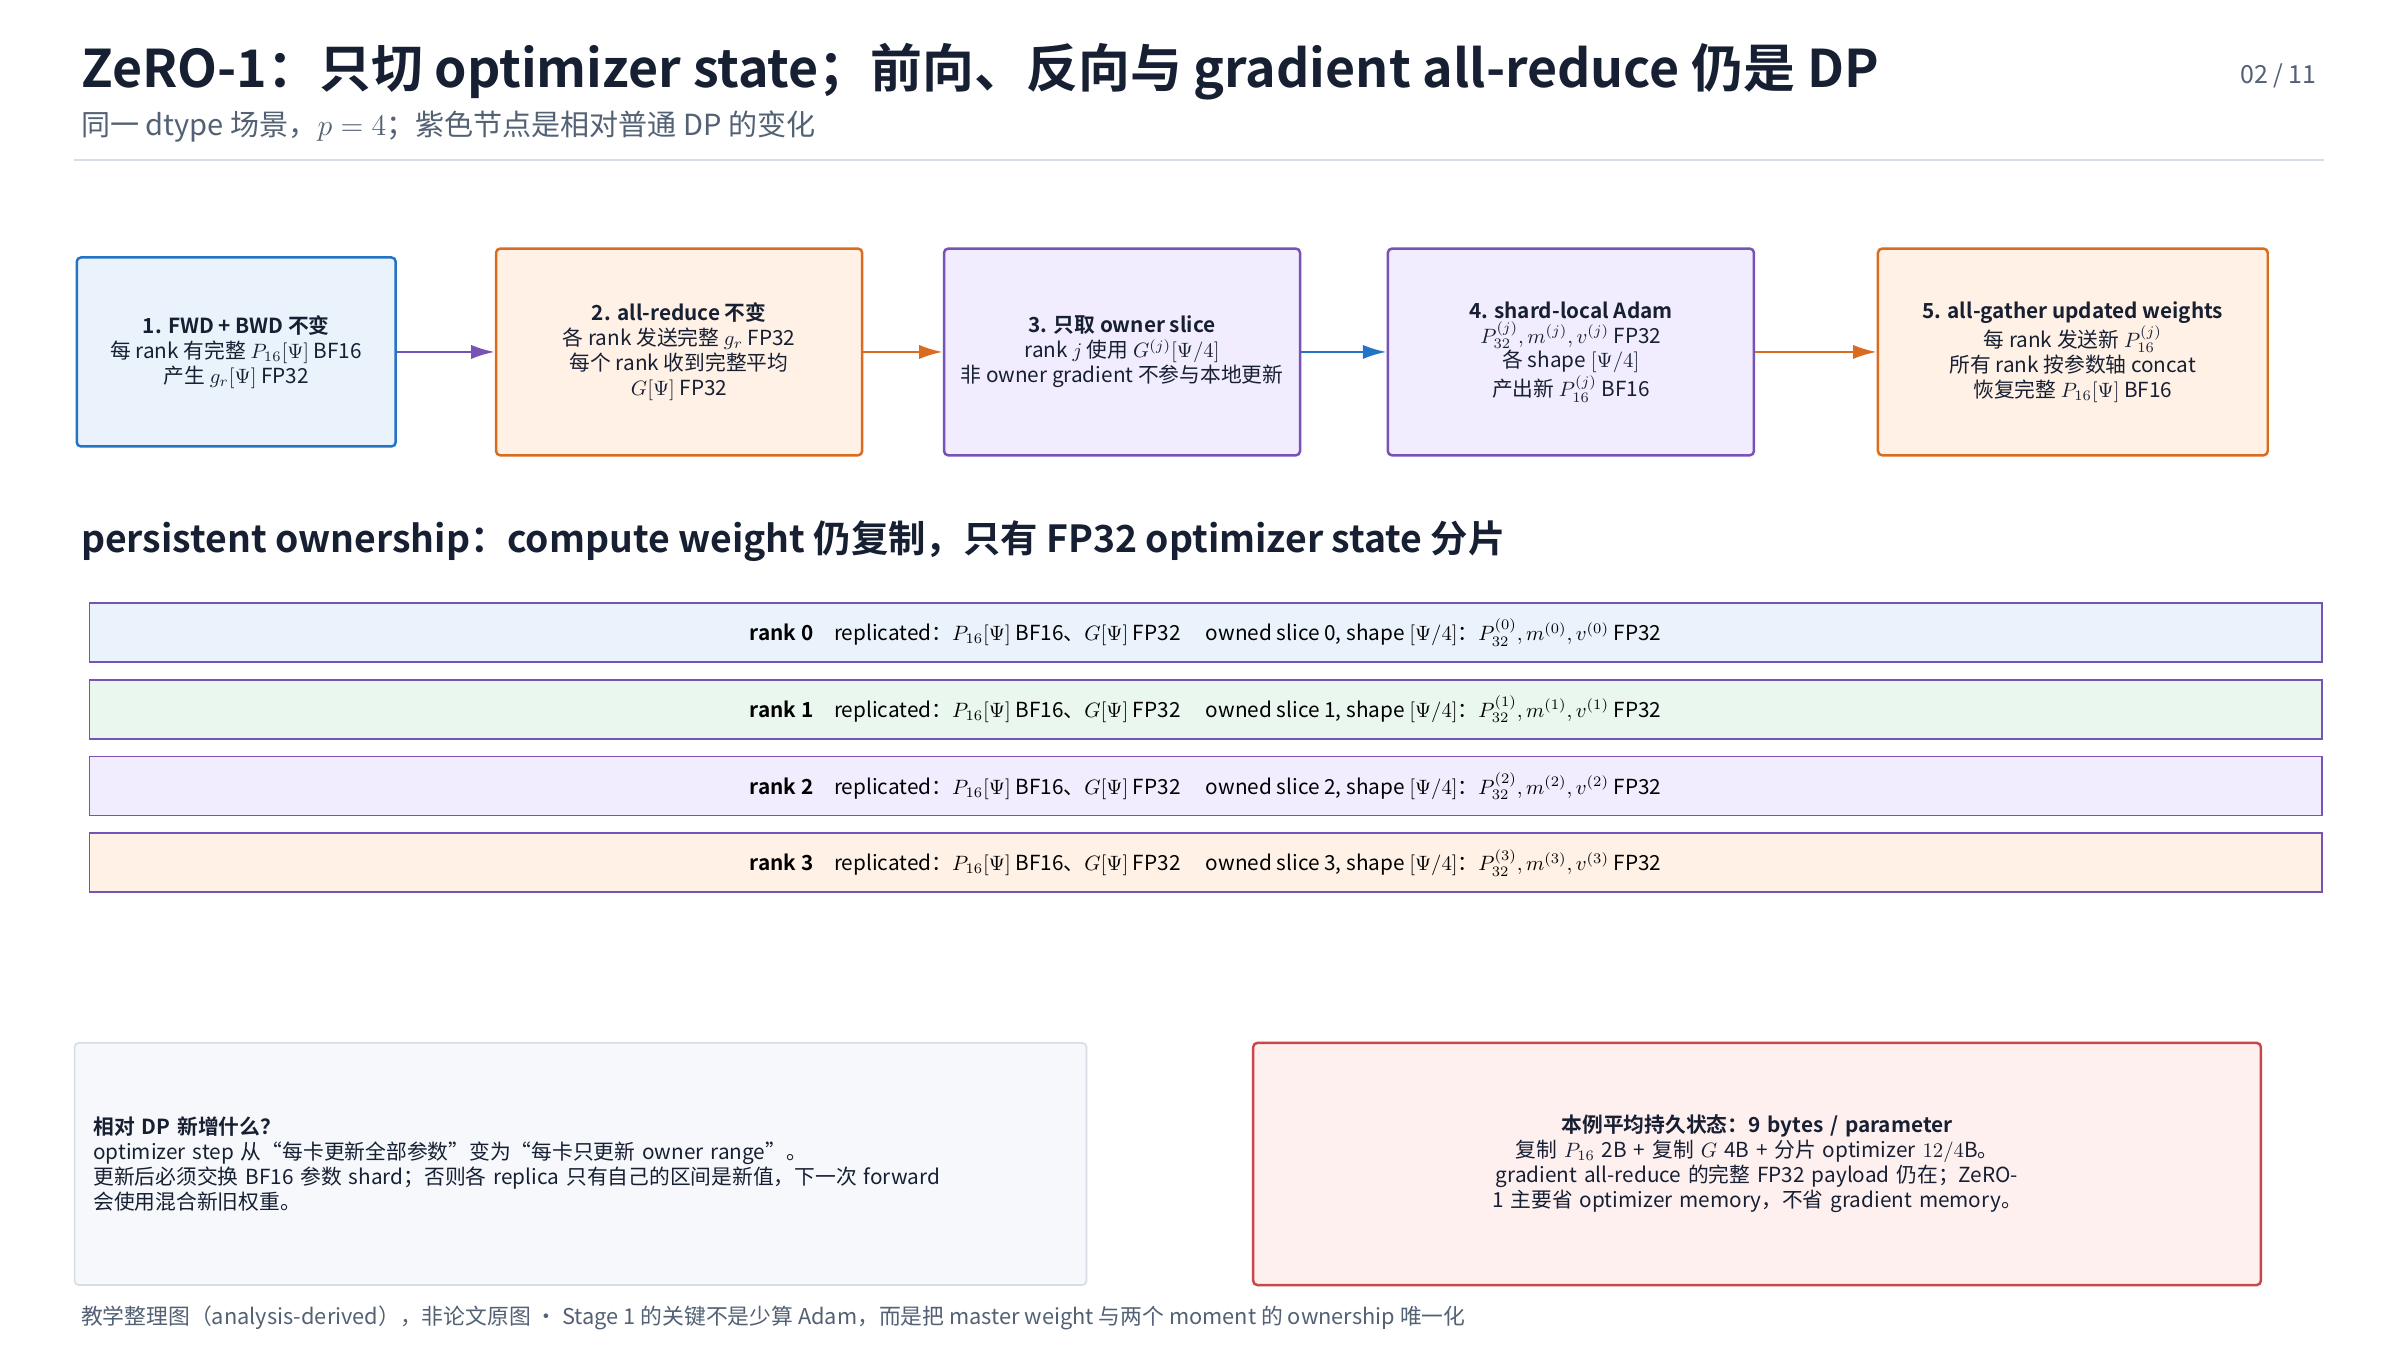
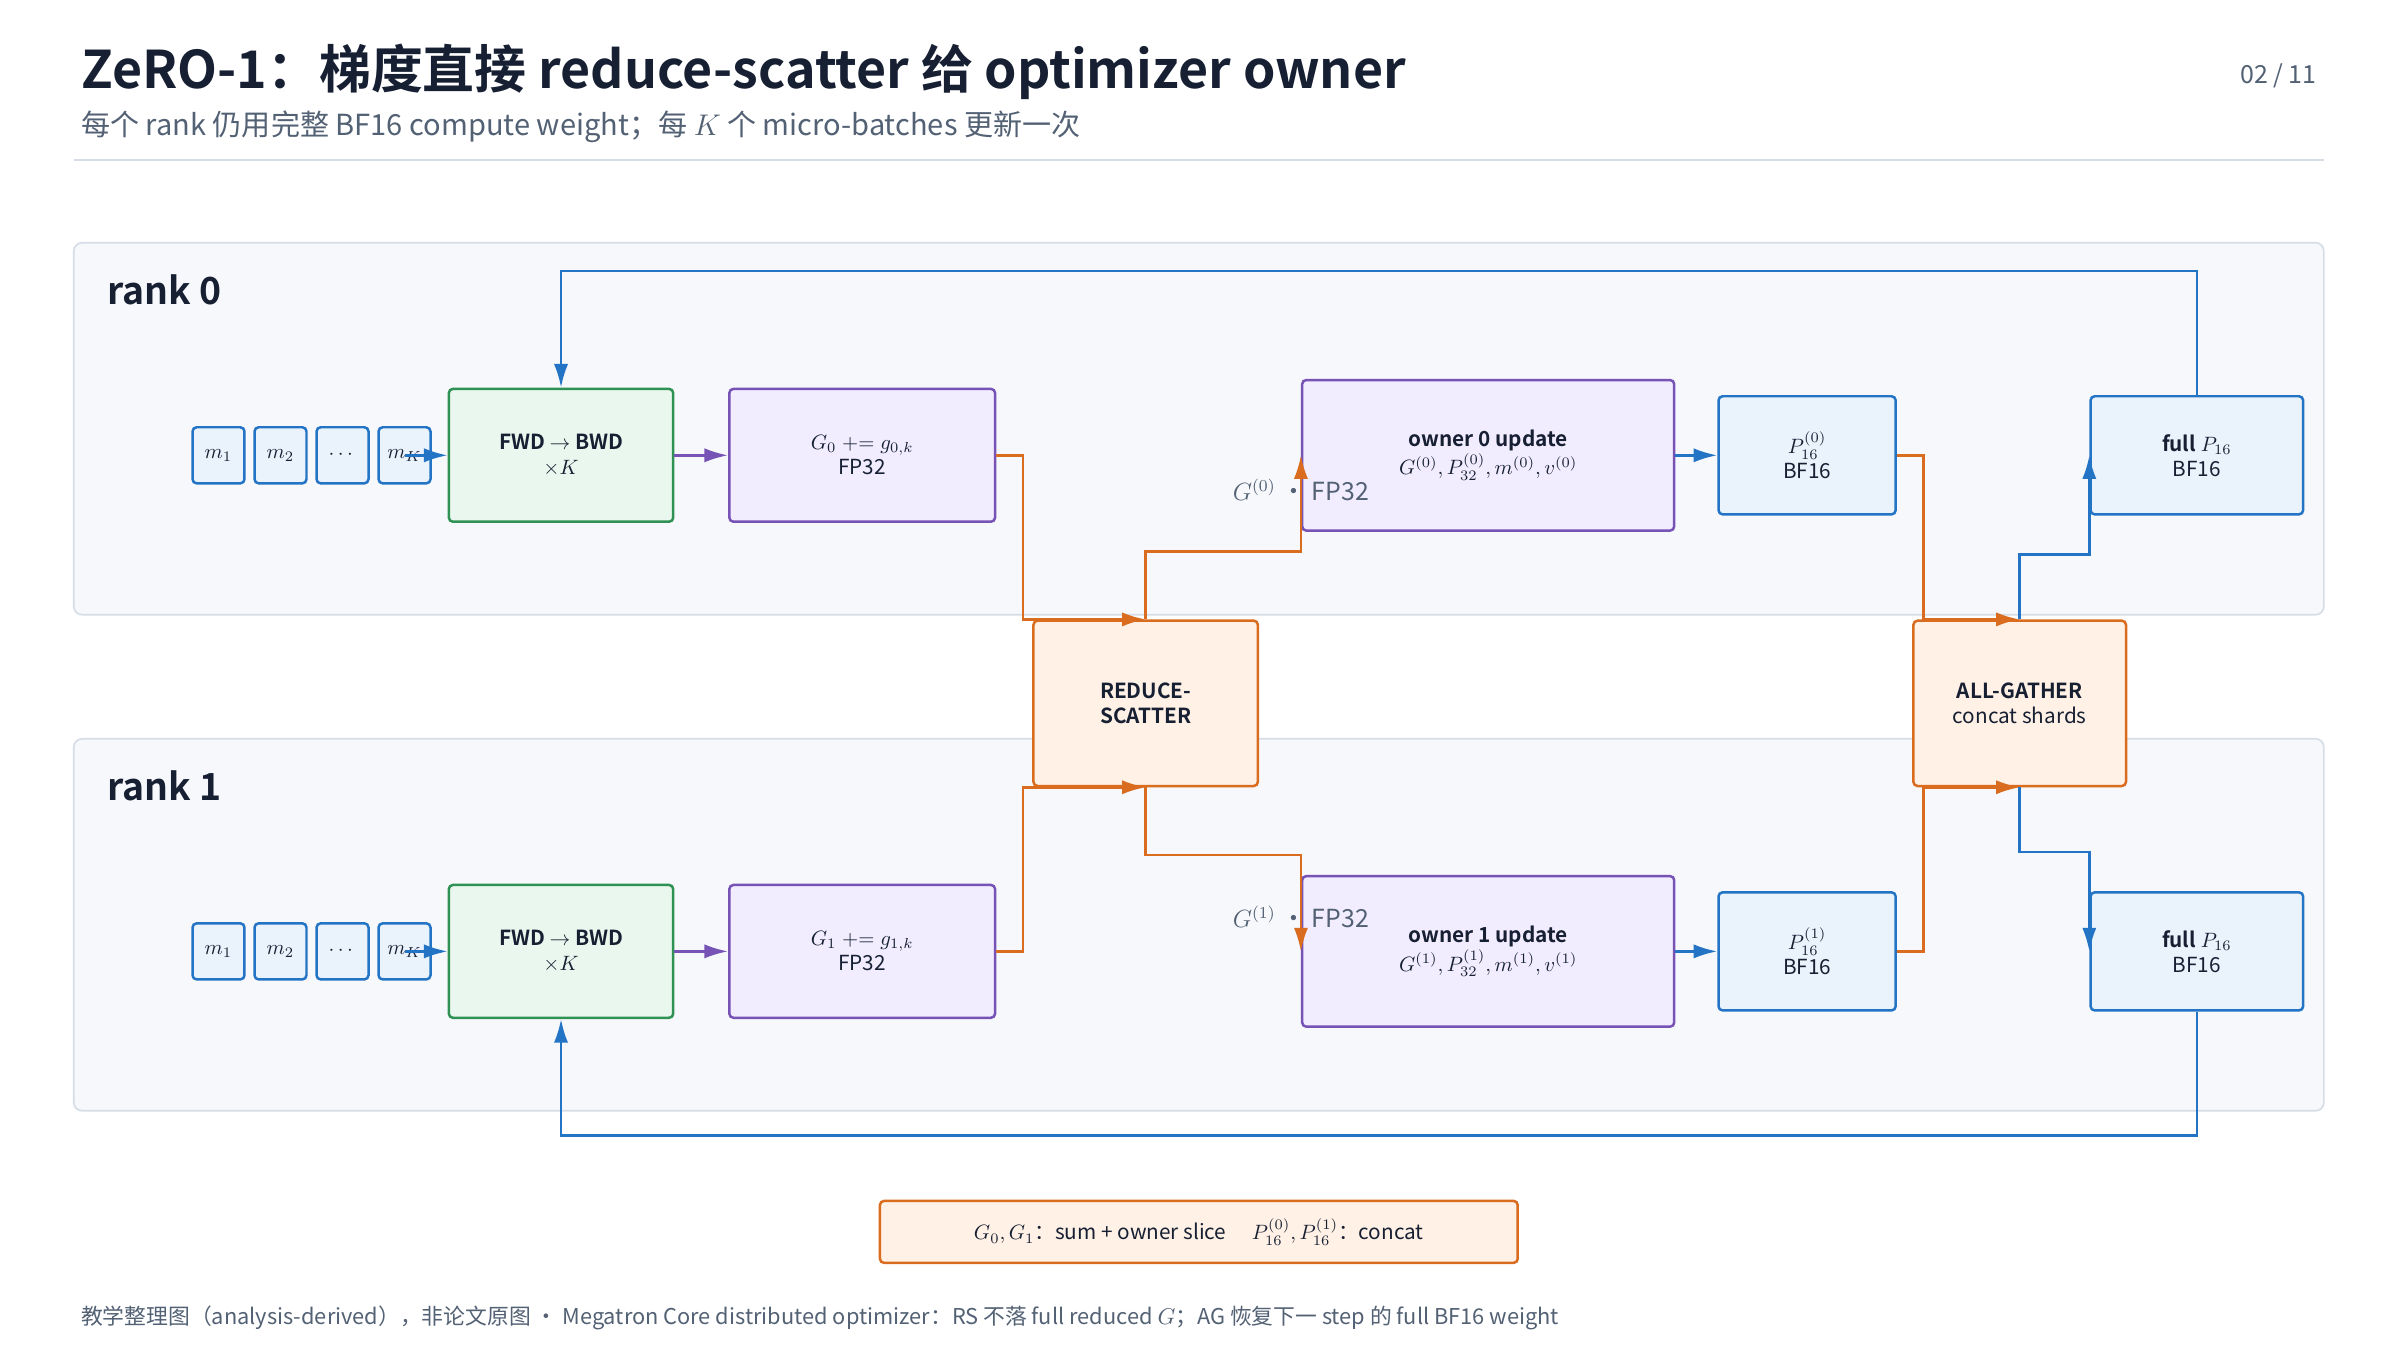
docs(parallelism): correct ZeRO-1 reduce-scatter flow

diff --git a/01_ai_infra/parallelism/evidence/figure-inventory.md b/01_ai_infra/parallelism/evidence/figure-inventory.md
@@ -44,12 +44,12 @@ canonical: true
 
 以下 11 张 PNG 全部由 [并行切分方法体系](../surveys/parallel-partitioning-taxonomy.md) 独占，使用 TikZ 排版并以 `2400×1350` 输出。它们是 analysis-derived 教学整理图，不是原论文 Figure/Table，不计入论文视觉证据数量。TikZ 源码、PDF、过程渲染、contact sheet 与像素检查保留在 process workspace。
 
-2026-08-03 的 `1.4.0` 修订把 DP/ZeRO 汇总图拆成普通 DP、ZeRO-1、ZeRO-2、ZeRO-3 四张 workflow，固定 BF16 compute 与 FP32 gradient/optimizer 的示例 dtype，显式展示 forward、backward、optimizer、collective payload、owner 和 buffer 生命周期。2026-08-02 的 `1.3.0` 修订把原 SVG 重绘为 TikZ，并将各图统一为“全局 tensor/state -> rank-local ownership 与具体 shape -> local operator -> collective/P2P 的发送者、接收者和合并规则 -> 恢复语义”。`1.2.0` 参考的 [Colossal-AI Parallelism](https://colossalai.org/docs/concepts/paradigms_of_parallelism) 仍只作为视觉组织参考；tensor 关系、成本注释和边界条件来自本领域 canonical Paper/Topic/Evidence 的综合分析，没有复制网页图片，也不把这些整理图作为外部证据。
+2026-08-03 的 `1.5.0` 修订参考用户提供稿的 rank lane 与 feedback loop 视觉语法重绘普通 DP 和 ZeRO-1，补入 $K$ 个 micro-batches 的本地梯度累积，并依据 Megatron Core 固定 commit `b19b1f47cf7e289607f3be480c5f06c6ada25b16` 将 ZeRO-1 修正为 gradient reduce-scatter、owner-local update 和 parameter all-gather。`1.4.0` 修订把 DP/ZeRO 汇总图拆成普通 DP、ZeRO-1、ZeRO-2、ZeRO-3 四张 workflow，固定 BF16 compute 与 FP32 gradient/optimizer 的示例 dtype，显式展示 forward、backward、optimizer、collective payload、owner 和 buffer 生命周期。2026-08-02 的 `1.3.0` 修订把原 SVG 重绘为 TikZ，并将各图统一为“全局 tensor/state -> rank-local ownership 与具体 shape -> local operator -> collective/P2P 的发送者、接收者和合并规则 -> 恢复语义”。`1.2.0` 参考的 [Colossal-AI Parallelism](https://colossalai.org/docs/concepts/paradigms_of_parallelism) 仍只作为视觉组织参考；tensor 关系、成本注释和边界条件来自本领域 canonical Paper/Topic/Evidence 的综合分析，没有复制网页图片，也不把这些整理图作为外部证据。
 
 | Owner | Asset | 用途 | 分辨率 | 声明 | QA |
 |---|---|---|---|---|---|
-| [并行切分方法体系](../surveys/parallel-partitioning-taxonomy.md) | [普通 DP](../assets/surveys/parallel-partitioning-taxonomy/dp-training-workflow.png) | BF16 input/compute/activation、FP32 loss/gradient/Adam、forward/backward、gradient all-reduce 与 replica ownership | `2400×1350` | 教学整理图 / 非论文证据 | passed：LuaLaTeX、原分辨率逐图检查、文字/箭头/dtype/workflow/collective 语义 QA，2026-08-03 |
-| [并行切分方法体系](../surveys/parallel-partitioning-taxonomy.md) | [ZeRO-1](../assets/surveys/parallel-partitioning-taxonomy/zero1-training-workflow.png) | replicated BF16 compute weight/FP32 gradient、optimizer owner update 与 updated-weight all-gather | `2400×1350` | 教学整理图 / 非论文证据 | passed：LuaLaTeX、原分辨率逐图检查、文字/箭头/dtype/owner/collective 语义 QA，2026-08-03 |
+| [并行切分方法体系](../surveys/parallel-partitioning-taxonomy.md) | [普通 DP](../assets/surveys/parallel-partitioning-taxonomy/dp-training-workflow.png) | $K$ 个 micro-batches、BF16 compute、FP32 gradient accumulation、单次 gradient all-reduce、replicated Adam update | `2400×1350` | 教学整理图 / 非论文证据 | passed：LuaLaTeX、原分辨率逐图检查、文字/箭头/dtype/micro-batch/collective 语义 QA，2026-08-03 |
+| [并行切分方法体系](../surveys/parallel-partitioning-taxonomy.md) | [ZeRO-1](../assets/surveys/parallel-partitioning-taxonomy/zero1-training-workflow.png) | $K$ 个 micro-batches、完整 local FP32 gradient buffer、gradient reduce-scatter、owner-local Adam、BF16 parameter all-gather | `2400×1350` | 教学整理图 / 非论文证据 | passed：LuaLaTeX、原分辨率逐图检查、文字/箭头/dtype/owner/RS/AG 语义 QA，2026-08-03 |
 | [并行切分方法体系](../surveys/parallel-partitioning-taxonomy.md) | [ZeRO-2](../assets/surveys/parallel-partitioning-taxonomy/zero2-training-workflow.png) | FP32 gradient reduce-scatter、owner-local Adam、BF16 parameter all-gather 与 bucket 峰值 | `2400×1350` | 教学整理图 / 非论文证据 | passed：LuaLaTeX、原分辨率逐图检查、文字/箭头/dtype/chunk/collective 语义 QA，2026-08-03 |
 | [并行切分方法体系](../surveys/parallel-partitioning-taxonomy.md) | [ZeRO-3](../assets/surveys/parallel-partitioning-taxonomy/zero3-training-workflow.png) | layer-wise BF16 parameter gather、forward/backward buffer 生命周期、FP32 gradient reduce-scatter 与 shard-local optimizer | `2400×1350` | 教学整理图 / 非论文证据 | passed：LuaLaTeX、原分辨率逐图检查、文字/箭头/dtype/lifecycle/collective 语义 QA，2026-08-03 |
 | [并行切分方法体系](../surveys/parallel-partitioning-taxonomy.md) | [TP](../assets/surveys/parallel-partitioning-taxonomy/tensor-parallel-block.png) | column-sharded weight -> local GeLU -> row-sharded weight -> partial sum all-reduce | `2400×1350` | 教学整理图 / 非论文证据 | passed after 11-page renumber：原分辨率逐图检查，2026-08-03 |

diff --git a/01_ai_infra/parallelism/surveys/parallel-partitioning-taxonomy.md b/01_ai_infra/parallelism/surveys/parallel-partitioning-taxonomy.md
@@ -76,11 +76,11 @@ canonical: true
 
 ![ZeRO-1 训练 workflow 与 dataflow|1349](../assets/surveys/parallel-partitioning-taxonomy/zero1-training-workflow.png)
 
-> ZeRO-1：只把 FP32 master weight 与 Adam moments 分给唯一 owner；gradient all-reduce 和完整 BF16 compute weight 仍与普通 DP 相同。
+> ZeRO-1：每个 rank 先累计 $K$ 个 micro-batches 的完整 local FP32 gradient；Megatron Core 的 distributed optimizer 随后直接 reduce-scatter 到 optimizer owner，owner 只更新自己的 FP32 master weight 与 Adam moments，最后 all-gather 更新后的 BF16 parameter shards。reduce-scatter 等价于 all-reduce 后取 local slice，但不必在每卡落地完整的已归约 gradient。对同样大小的 gradient，ring reduce-scatter 的每 rank payload 约为 $(p-1)q\Psi/p$，是 ring all-reduce 的一半；整步还需另计 parameter all-gather。
 
 ![ZeRO-2 训练 workflow 与 dataflow|1349](../assets/surveys/parallel-partitioning-taxonomy/zero2-training-workflow.png)
 
-> ZeRO-2：gradient all-reduce 改为 reduce-scatter；每个 owner 只接收已经跨 rank 求和的 FP32 gradient shard，再更新自己的参数区间。
+> ZeRO-2：继续让每个 owner 只接收跨 rank 求和后的 FP32 gradient shard，并进一步把 gradient 的分片存储与生命周期纳入模型状态契约。它与上述 Megatron ZeRO-1 路径的区别不是“首次使用 reduce-scatter”，而是 gradient 是否作为持久分片状态管理。
 
 ![ZeRO-3 训练 workflow 与 dataflow|1349](../assets/surveys/parallel-partitioning-taxonomy/zero3-training-workflow.png)
 
@@ -92,7 +92,7 @@ canonical: true
 
 - **全局对象 / local layout**：DP 沿 $B$ 切分，每 rank 处理 $B/p$ 样本，但持完整 parameters、gradients 和 optimizer states。
 - **复制对象**：普通 DP 复制全部模型状态；ZeRO 按 Stage 1 optimizer、Stage 2 gradients、Stage 3 parameters 的顺序消除复制。
-- **恢复语义**：DP 在 optimizer step 前 all-reduce gradients；ZeRO-2 常用 reduce-scatter 让 gradient owner 更新；ZeRO-3 在 layer 使用参数前 all-gather，之后释放或重新分片。
+- **恢复语义**：DP 在 optimizer step 前 all-reduce gradients；ZeRO 的分布式 optimizer 可直接 reduce-scatter，让每个 owner 收到全局 gradient 的对应 slice。Megatron Core 的 ZeRO-1 路径已经这样实现；ZeRO-2 进一步分片 gradient 的存储与生命周期。ZeRO-3 在 layer 使用参数前 all-gather，之后释放或重新分片。
 - **通信频率 / 载荷**：ring all-reduce 一份 $q\Psi$ gradient 时，每 rank 算法 payload 约 $2(p-1)q\Psi/p$ bytes/step，**analysis-derived**。Stage 3 还按 layer/bucket 引入 parameter all-gather，频率通常显著高于普通 DP。
 - **模型状态内存**：忽略 padding、metadata 和临时 buffer，一份 parameter 与 gradient 均按 $q\Psi$、optimizer 为 $\kappa q\Psi$ 时，平均每 rank 状态为：
 
